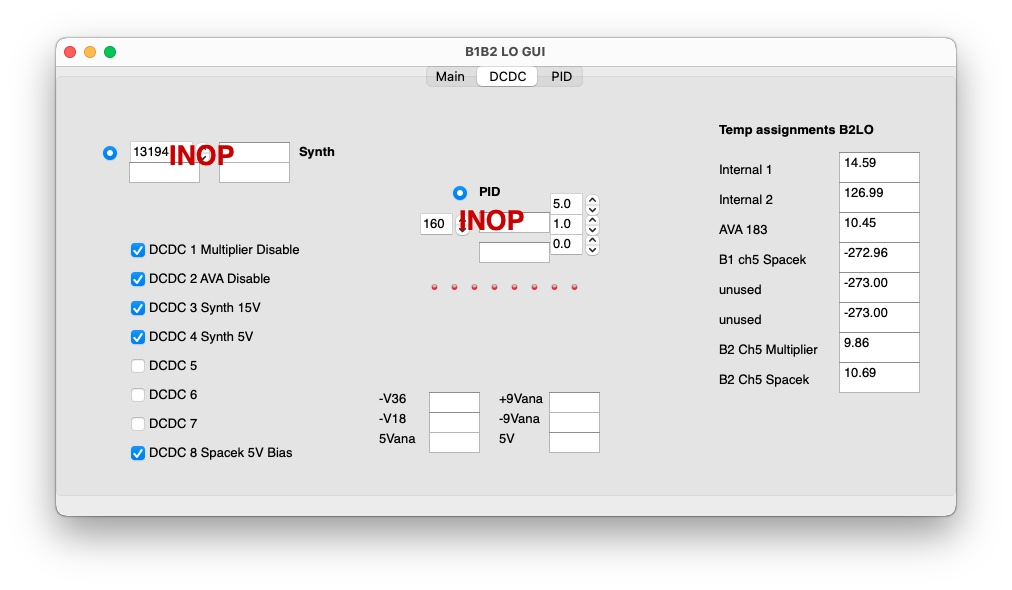
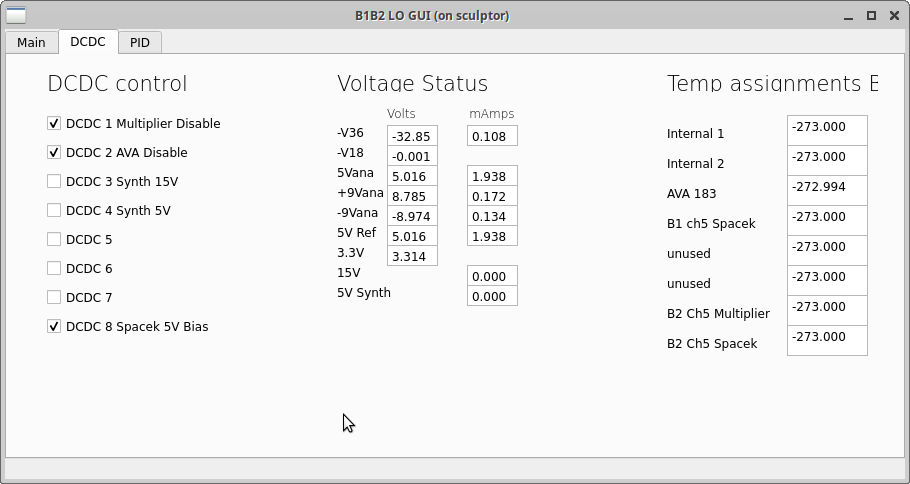
new B1B2 Tab2 image

diff --git a/B1B2LO/start.py b/B1B2LO/start.py
@@ -141,7 +141,7 @@ class Window(QMainWindow, form_class):
         cmd="status slow\r"
         Ser.write(cmd.encode())
         data=coreSERIAL.read_end_multi(Ser, 'END\n').split()
-        N=127*2
+        N=len(data)
 
         # translate +/- to p/n
         datan=[None]*N
@@ -176,8 +176,9 @@ class Window(QMainWindow, form_class):
         self.textEdit_24c.setText(  str(v.p5V_ANA_MON))      #5V
         self.textEdit_24c_2.setText(str(v.p5V_ANA_Imon))     #5V current
 
-        self.textEdit_25c.setText(  str(v.SBC_3p3V))      #3.3V
-        self.textEdit_26c_2.setText(str(v.p15V_Imon))     #15V synth current
+        self.textEdit_25c.setText(  str(v.SBC_3p3V))        #3.3V SBC 
+        self.textEdit_26c_2.setText(str(v.p15V_Imon))       #15V synth current
+        self.textEdit_27c_2.setText(str(v.p5V_SYNTH_Imon))  #5V synth current
 
         self.textEdit_AD590_0.setText(str(v.B2_AD590_0))  #AD590_0
         self.textEdit_AD590_1.setText(str(v.B2_AD590_1))  #AD590_1
@@ -317,6 +318,68 @@ class Window(QMainWindow, form_class):
         self.spin3_8.blockSignals(True)
         self.spin3_8.setValue(int(v.B2_DAC_24))
         self.spin3_8.blockSignals(False)
+
+        self.dcdc1.blockSignals(True)
+        self.dcdc1.setChecked(int(v.B2_dcdc_1))
+        self.dcdc1.blockSignals(False)
+        self.dcdc2.blockSignals(True)
+        self.dcdc2.setChecked(int(v.B2_dcdc_2))
+        self.dcdc2.blockSignals(False)
+        self.dcdc3.blockSignals(True)
+        self.dcdc3.setChecked(int(v.B2_dcdc_3))
+        self.dcdc3.blockSignals(False)
+        self.dcdc4.blockSignals(True)
+        self.dcdc4.setChecked(int(v.B2_dcdc_4))
+        self.dcdc4.blockSignals(False)
+        self.dcdc5.blockSignals(True)
+        self.dcdc5.setChecked(int(v.B2_dcdc_5))
+        self.dcdc5.blockSignals(False)
+        self.dcdc6.blockSignals(True)
+        self.dcdc6.setChecked(int(v.B2_dcdc_6))
+        self.dcdc6.blockSignals(False)
+        self.dcdc7.blockSignals(True)
+        self.dcdc7.setChecked(int(v.B2_dcdc_7))
+        self.dcdc7.blockSignals(False)
+        self.dcdc8.blockSignals(True)
+        self.dcdc8.setChecked(int(v.B2_dcdc_8))
+        self.dcdc8.blockSignals(False)
+
+        self.textEdit_25.setText(str(v.B2_PSatV_1))
+        self.textEdit_26.setText(str(v.B2_PSatV_2))
+        self.textEdit_27.setText(str(v.B2_PSatV_3))
+        self.textEdit_28.setText(str(v.B2_PSatV_4))
+        self.textEdit_29.setText(str(v.B2_PSatV_5))
+        self.textEdit_30.setText(str(v.B2_PSatV_6))
+        self.textEdit_31.setText(str(v.B2_PSatV_7))
+        self.textEdit_32.setText(str(v.B2_PSatV_8))
+
+        self.spin_psat_dac_1.blockSignals(True)
+        self.spin_psat_dac_1.setValue(int(v.B2_PSatDac_1))
+        self.spin_psat_dac_1.blockSignals(False)
+        self.spin_psat_dac_2.blockSignals(True)
+        self.spin_psat_dac_2.setValue(int(v.B2_PSatDac_2))
+        self.spin_psat_dac_2.blockSignals(False)
+        self.spin_psat_dac_3.blockSignals(True)
+        self.spin_psat_dac_3.setValue(int(v.B2_PSatDac_3))
+        self.spin_psat_dac_3.blockSignals(False)
+        self.spin_psat_dac_4.blockSignals(True)
+        self.spin_psat_dac_4.setValue(int(v.B2_PSatDac_4))
+        self.spin_psat_dac_4.blockSignals(False)
+        self.spin_psat_dac_5.blockSignals(True)
+        self.spin_psat_dac_5.setValue(int(v.B2_PSatDac_5))
+        self.spin_psat_dac_5.blockSignals(False)
+        self.spin_psat_dac_6.blockSignals(True)
+        self.spin_psat_dac_6.setValue(int(v.B2_PSatDac_6))
+        self.spin_psat_dac_6.blockSignals(False)
+        self.spin_psat_dac_7.blockSignals(True)
+        self.spin_psat_dac_7.setValue(int(v.B2_PSatDac_7))
+        self.spin_psat_dac_7.blockSignals(False)
+        self.spin_psat_dac_8.blockSignals(True)
+        self.spin_psat_dac_8.setValue(int(v.B2_PSatDac_8))
+        self.spin_psat_dac_8.blockSignals(False)
+
+        self.serverResponse.setText("Status done!")
+
 
 
     def update_pid(self):
